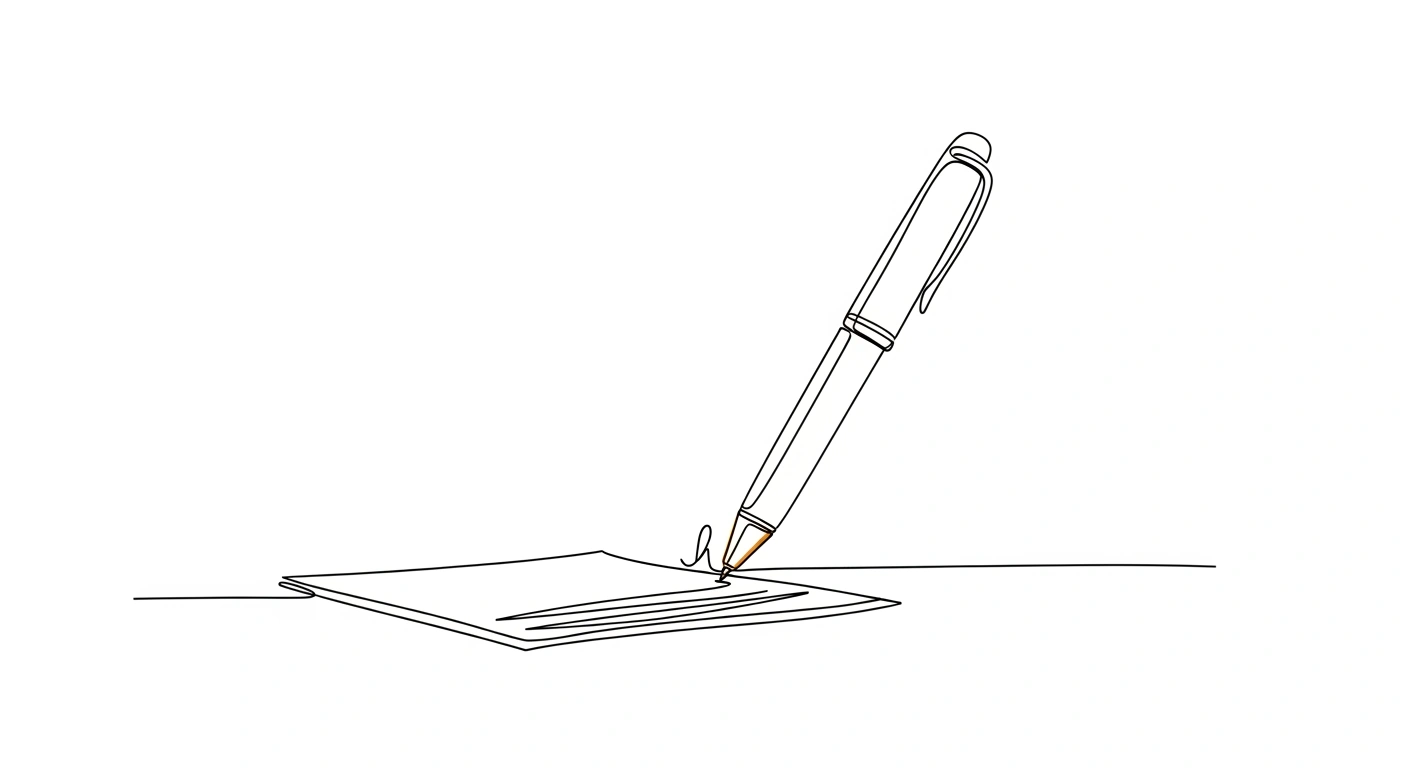
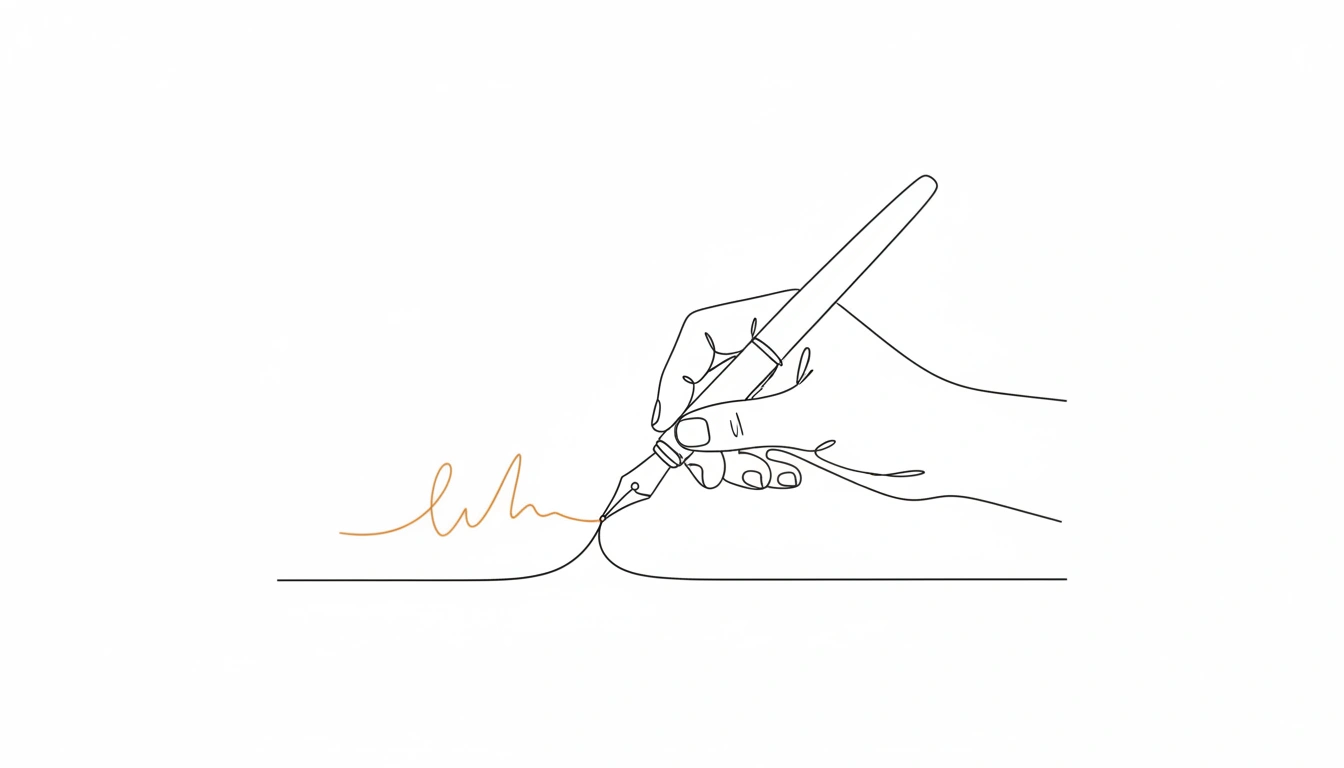
fix(content): permit2 hero — amber signature, not amber pen-nib
Design Council review of the prior permit2-and-eip-2612.webp:

  Maren (Visual)    : amber was a tiny fleck on the pen nib — barely
                      present. Catalogue cohesion ("one element in
                      warm amber") needs a legible accent, not a
                      subliminal one.
  Kael (Systems)    : line-art + anchor line were fine; the amber
                      element was the failure.
  Sable (UX)        : at thumbnail size on /blog index the amber
                      disappeared — image read as pure black-on-white.
  Thane (Perf)      : 24KB — in band; not the issue.

Fix: make the signature itself the amber element. Story-wise, that's
also the strongest hero for this post — Permit2 and EIP-2612 are
signature-based approvals, so an amber signature being drawn IS the
subject.

Prompt now uses "the signature stroke drawn in warm amber ink" —
the "drawn in warm amber ink" phrasing signals stroke rather than
fill, per tonight's amber-ink-vs-amber-rendered learning.

Output verified: 22KB, signature clearly amber, hand + fountain pen
in black line-art, horizontal anchor line present. Couples subject
to post topic directly.

diff --git a/scripts/generate-blog-images.py b/scripts/generate-blog-images.py
@@ -150,7 +150,7 @@ BLOG_IMAGES = [
     },
     {
         "filename": "permit2-and-eip-2612.webp",
-        "prompt": "A fountain pen signing a glowing digital document floating above a desk, warm amber light, cream background, editorial",
+        "prompt": "minimal line art illustration, single continuous thin black ink stroke on plain white background, no shading, no fill, a fountain pen signing a paper document on a baseline, the signature stroke drawn in warm amber ink, centered, simple elegant, editorial spot illustration",
     },
     {
         "filename": "anatomy-of-an-approval-exploit.webp",
